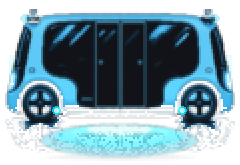
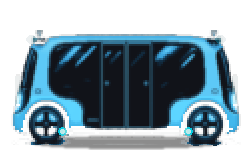
Ground the Zoox RoboTaxi — no hover glow or float
Strip the cyan thruster/hover pad from the painted Zoox plate,
plant tires on a road contact shadow, and remove runtime underglow
pulse and idle bounce so the vehicle sits on the asphalt.

diff --git a/src/objects/Zoox.js b/src/objects/Zoox.js
@@ -2,7 +2,8 @@ import Phaser from 'phaser';
 import { ASSET_KEYS, INVINCIBLE_MS, LANE_Y, PLAYER_X } from '../config.js';
 
 /**
- * Pixel Zoox — lane Y is authoritative; idle bounce is a visual offset only.
+ * Zoox RoboTaxi — grounded on the road (no hover).
+ * Lane Y is authoritative; wheels stay planted.
  */
 export class Zoox extends Phaser.Physics.Arcade.Sprite {
   /**
@@ -14,7 +15,6 @@ export class Zoox extends Phaser.Physics.Arcade.Sprite {
 
     this.laneIndex = laneIndex;
     this.baseY = LANE_Y[laneIndex];
-    this.bounce = 0;
     this.invincible = false;
     this.changingLane = false;
     this.pendingDir = 0;
@@ -22,49 +22,38 @@ export class Zoox extends Phaser.Physics.Arcade.Sprite {
     scene.add.existing(this);
     scene.physics.add.existing(this);
 
-    this.setOrigin(0.5, 0.72);
+    // Origin at the tire contact row so the car sits on the asphalt.
+    this.setOrigin(0.5, 0.95);
     this.setDepth(30);
-    // Painted Zoox already includes underglow/reflection — keep scale readable.
-    this.setScale(0.92);
+    this.setScale(0.98);
     this.setCollideWorldBounds(false);
-    this.body.setSize(this.width * 0.58, this.height * 0.28);
-    this.body.setOffset(this.width * 0.2, this.height * 0.42);
+
+    // Body-only hitbox — exclude tires/shadow padding.
+    this.body.setSize(this.width * 0.56, this.height * 0.38);
+    this.body.setOffset(this.width * 0.22, this.height * 0.22);
 
     if (scene.anims.exists('zoox-drive')) {
       this.play('zoox-drive');
     }
 
-    // Soft contact shadow only — glow is baked into the painted sprite.
-    this.shadow = scene.add.image(this.x, this.y + 28, ASSET_KEYS.SHADOW)
+    // Contact shadow under the tires (road shadow, not hover glow).
+    this.shadow = scene.add.image(this.x, this.baseY + 4, ASSET_KEYS.SHADOW)
       .setDepth(27)
-      .setScale(1.5, 0.85)
-      .setAlpha(0.45);
+      .setScale(1.55, 0.65)
+      .setAlpha(0.5);
 
-    this.headlight = scene.add.image(this.x + 70, this.y - 8, ASSET_KEYS.HEADLIGHT)
+    this.headlight = scene.add.image(this.x + 70, this.y - 28, ASSET_KEYS.HEADLIGHT)
       .setOrigin(0, 0.5)
       .setDepth(29)
-      .setScale(0.7)
-      .setAlpha(0.45)
+      .setScale(0.6)
+      .setAlpha(0.38)
       .setBlendMode(Phaser.BlendModes.ADD);
 
-    this.taillight = scene.add.image(this.x - 60, this.y - 8, ASSET_KEYS.TAILLIGHT)
+    this.taillight = scene.add.image(this.x - 62, this.y - 28, ASSET_KEYS.TAILLIGHT)
       .setDepth(29)
-      .setScale(0.8)
-      .setAlpha(0.35)
+      .setScale(0.65)
+      .setAlpha(0.28)
       .setBlendMode(Phaser.BlendModes.ADD);
-
-    this.underglow = scene.add.graphics().setDepth(28).setAlpha(0.35);
-
-    // Bounce offset object — never tween sprite.y directly for idle.
-    this.bounceState = { v: 0 };
-    this.idleTween = scene.tweens.add({
-      targets: this.bounceState,
-      v: -3,
-      duration: 480,
-      yoyo: true,
-      repeat: -1,
-      ease: 'Sine.easeInOut',
-    });
 
     this.syncPosition();
   }
@@ -72,20 +61,11 @@ export class Zoox extends Phaser.Physics.Arcade.Sprite {
   syncPosition() {
     if (!this.active) return;
     if (!this.changingLane) {
-      this.y = this.baseY + this.bounceState.v;
+      this.y = this.baseY;
     }
-    this.shadow.setPosition(this.x + 2, this.baseY + 18);
-    this.headlight.setPosition(this.x + 70, this.y - 8);
-    this.taillight.setPosition(this.x - 60, this.y - 8);
-    // Visual-only underglow — bright cyan pool like the preferred look.
-    this.underglow.clear();
-    const pulse = 0.28 + Math.sin(this.scene.time.now / 180) * 0.08;
-    this.underglow.fillStyle(0x3acbff, pulse * 0.45);
-    this.underglow.fillEllipse(this.x, this.baseY + 18, 112, 18);
-    this.underglow.fillStyle(0x00e5ff, pulse);
-    this.underglow.fillEllipse(this.x, this.baseY + 16, 92, 12);
-    this.underglow.fillStyle(0xffffff, pulse * 0.25);
-    this.underglow.fillEllipse(this.x, this.baseY + 15, 40, 5);
+    this.shadow.setPosition(this.x + 2, this.baseY + 4);
+    this.headlight.setPosition(this.x + 70, this.y - 28);
+    this.taillight.setPosition(this.x - 62, this.y - 28);
   }
 
   /**
@@ -111,9 +91,9 @@ export class Zoox extends Phaser.Physics.Arcade.Sprite {
       duration: 110,
       ease: 'Sine.easeOut',
       onUpdate: () => {
-        this.shadow.setPosition(this.x + 2, this.y + this.displayHeight * 0.34);
-        this.headlight.setPosition(this.x + 58, this.y + 2);
-        this.taillight.setPosition(this.x - 52, this.y + 2);
+        this.shadow.setPosition(this.x + 2, this.y + 4);
+        this.headlight.setPosition(this.x + 70, this.y - 28);
+        this.taillight.setPosition(this.x - 62, this.y - 28);
       },
       onComplete: () => {
         this.changingLane = false;
@@ -152,8 +132,6 @@ export class Zoox extends Phaser.Physics.Arcade.Sprite {
     this.shadow?.destroy();
     this.headlight?.destroy();
     this.taillight?.destroy();
-    this.underglow?.destroy();
-    this.idleTween?.stop();
     super.destroy(fromScene);
   }
 }

diff --git a/scripts/art/dehover_zoox.py b/scripts/art/dehover_zoox.py
@@ -1,0 +1,76 @@
+#!/usr/bin/env python3
+"""
+Ground the painted Zoox RoboTaxi.
+
+Removes the cyan hover/thruster pad under the car while preserving the
+sky-blue body, then plants tires on a road contact line with a soft shadow.
+"""
+
+from __future__ import annotations
+
+import subprocess
+import tempfile
+from pathlib import Path
+
+import numpy as np
+from PIL import Image, ImageDraw, ImageFilter
+
+ROOT = Path(__file__).resolve().parents[2]
+OUT = ROOT / "public" / "assets" / "zoox"
+SOURCE_COMMIT = "02e5a92"
+
+
+def load_source(name: str) -> Image.Image:
+    data = subprocess.check_output(
+        ["git", "-C", str(ROOT), "show", f"{SOURCE_COMMIT}:public/assets/zoox/{name}"],
+    )
+    tmp = Path(tempfile.gettempdir()) / f"zoox_src_{name}"
+    tmp.write_bytes(data)
+    return Image.open(tmp).convert("RGBA")
+
+
+def dehover(src: Image.Image) -> Image.Image:
+    arr = np.array(src)
+    h, _w = arr.shape[:2]
+
+    for y in range(122, h):
+        a = arr[y, :, 3].astype(np.int16)
+        r = arr[y, :, 0].astype(np.int16)
+        g = arr[y, :, 1].astype(np.int16)
+        b = arr[y, :, 2].astype(np.int16)
+        if y < 124:
+            glow = (b > r + 50) & (g > r + 40) & (b > 160) & (a < 220)
+            arr[y, glow, 3] = 0
+            continue
+        tire = (a > 210) & ((r + g + b) < 150) & (r < 55) & (g < 70)
+        arr[y, ~tire, 3] = 0
+
+    img = Image.fromarray(arr, "RGBA")
+    bbox = img.getbbox()
+    vehicle = img.crop(bbox)
+    vw, vh = vehicle.size
+
+    nw, nh = 252, 150
+    x0 = (nw - vw) // 2
+    y0 = nh - vh - 4
+    shadow = Image.new("RGBA", (nw, nh), (0, 0, 0, 0))
+    sd = ImageDraw.Draw(shadow)
+    sd.ellipse([x0 + 20, nh - 14, x0 + vw - 20, nh - 2], fill=(0, 0, 0, 115))
+    shadow = shadow.filter(ImageFilter.GaussianBlur(1.1))
+    canvas = Image.alpha_composite(Image.new("RGBA", (nw, nh), (0, 0, 0, 0)), shadow)
+    canvas.paste(vehicle, (x0, max(0, y0)), vehicle)
+    return canvas
+
+
+def main():
+    OUT.mkdir(parents=True, exist_ok=True)
+    for name in ("zoox_0.png", "zoox_1.png"):
+        out = dehover(load_source(name))
+        out.save(OUT / name)
+        print("wrote", OUT / name, out.size)
+    dehover(load_source("zoox_0.png")).save(OUT / "zoox.png")
+    print("wrote", OUT / "zoox.png")
+
+
+if __name__ == "__main__":
+    main()
